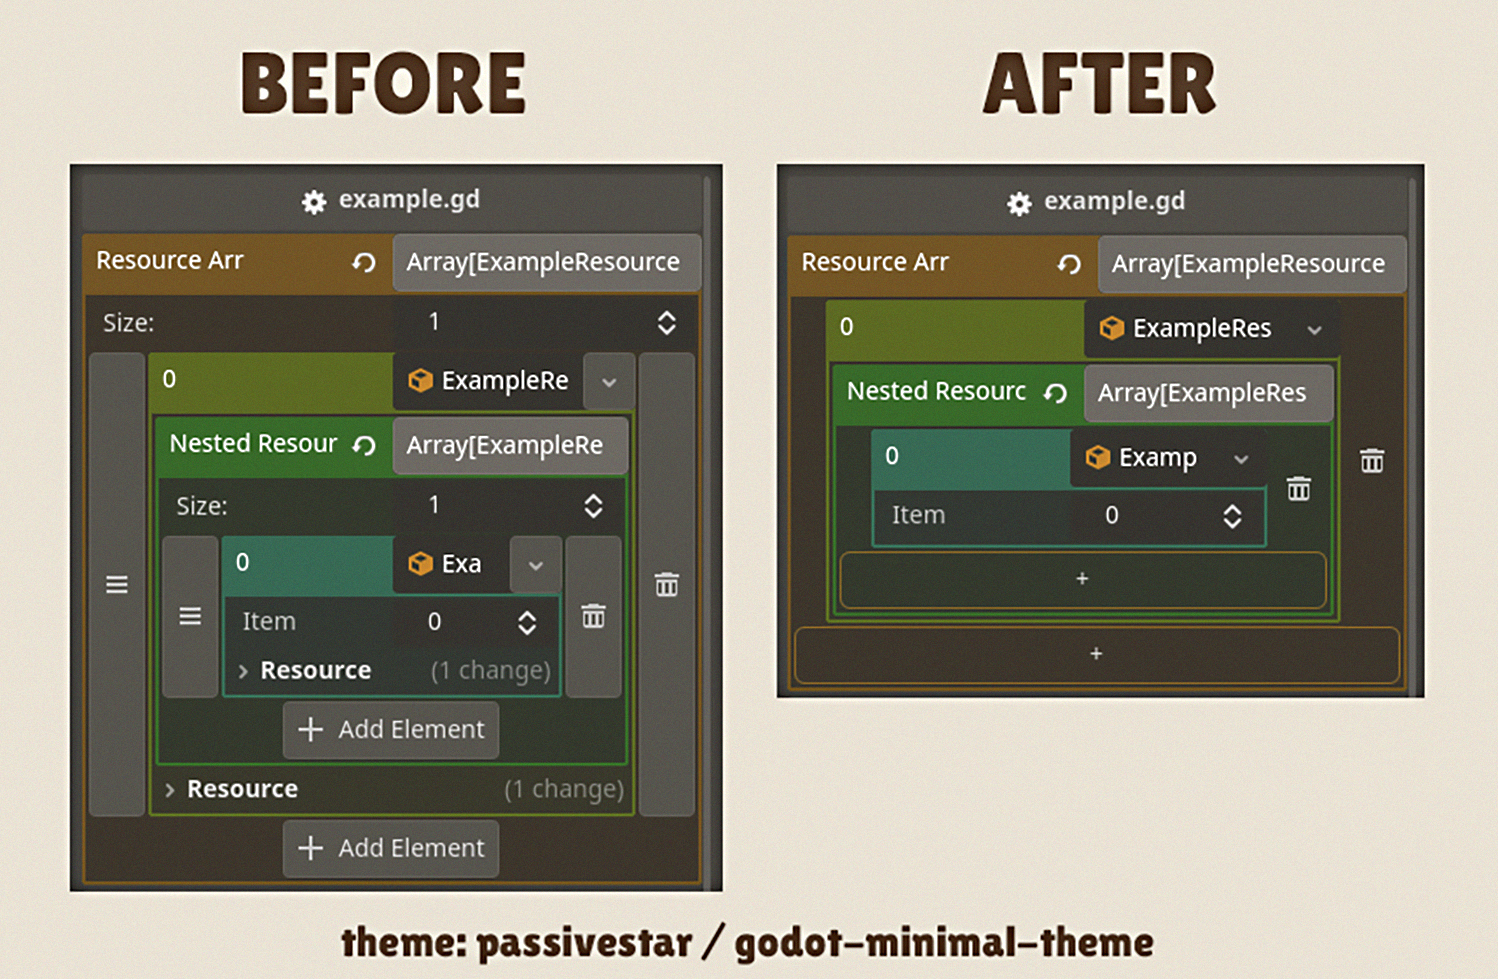
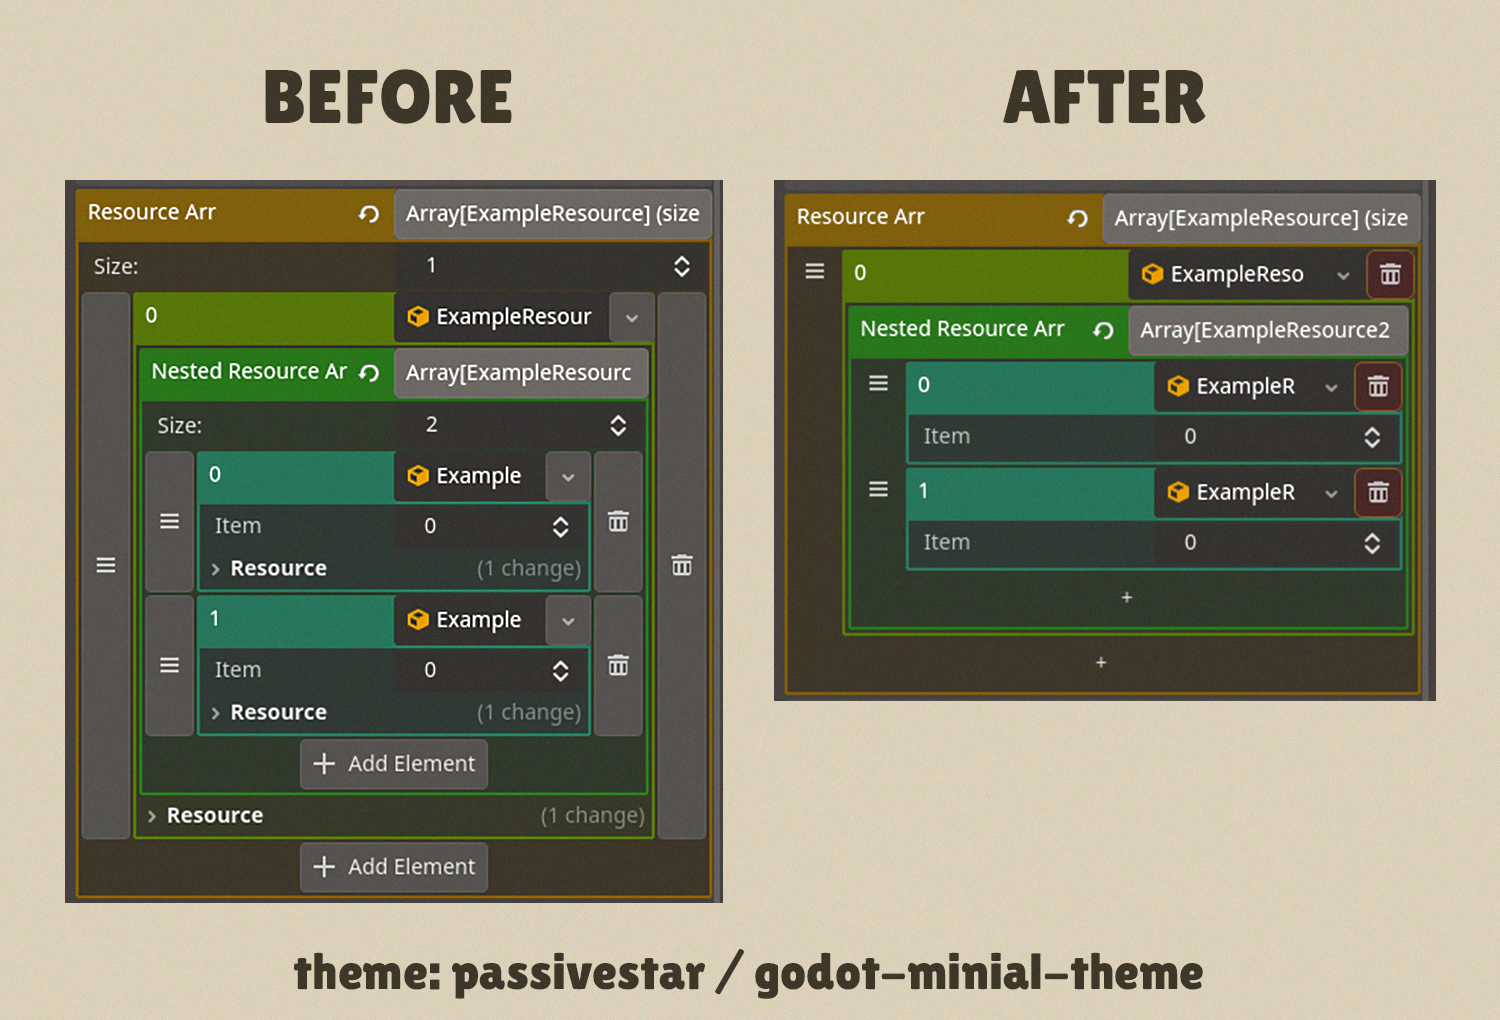
v0.9.2: even better ux

diff --git a/README.md b/README.md
@@ -3,22 +3,18 @@
 ![screenshot1](https://github.com/user-attachments/assets/5a17300e-4c65-4e9c-8af3-8067644192e5)
 
 This plugin debloats the exported Arrays by removing the `Size:` and `> Resource` fields and
-updating the UI colors for a better item hierarchy. This is a beta version because the method used to
-achieve this relies on the UI system defined for each version. So this addon might not work for other
-versions of Godot. This is a follow up of this issue: godotengine/godot#106576
+updating the UX. This is a beta version because the method used to achieve this relies on the UI system defined for each version. So this addon might not work for other versions of Godot. This is a follow up of this issue: godotengine/godot#106576
 
 > Works with Godot 4.4 - other versions not tested
 
 ## Why Are These Changes Made
 
-- Size and Resource fields: They are barely usable in most cases and make the hierarchy way worse
-- Grab menu: This field was emptied out (icon set to null), but you can use the empty space to move the items. This
-feature must be implemented in the header of each item instead of an icon. Hiding it was better for
-the visual hierarchy than having it.
-- Delete and drop down buttons: They have become transparent (in background) to support the main feature and help the visual hierarchy
-- Add Element button: This button was changed to be 1. visually more satisfying 2. Help with the visual hierarchy by being transparent in the normal mode. Also because of the nature of icons (you can't align them to the center I guess) I tried hiding the icon and using a "+" text instead.
+Note: You can disable any of these that you want. I'm just explaining why these are the defaults.
 
-This way only the necessary fields are bold, and the other buttons are in fact, secondary.
+- Size and Resource fields: They are barely usable in most cases and make the hierarchy way worse
+- Grab and drop down buttons: These buttons are a secondary, therefore they must've become transparent to respect the visual hirearchy. The grab button was way better if it was inside the item row, behind the index number. But any changes I tried to make was overriden.
+- Delete button: It's too distracting and large in the original version, which messes with the hierarchy. It's just a button to delete each item, so I put it next to the item header.
+- Add Element button: This button is secondary therefore transparent, and on hover becomes colorful to give feedback (the same as the delete button). Also because you can't center a button icon, I set the icon to null and used "+" as the text for it.
 
 ## How To Use
 
@@ -26,13 +22,17 @@ This way only the necessary fields are bold, and the other buttons are in fact, 
 2. Reload the project: Project > Reload Current Project
 3. Now you're good to go. check the example scene to see the results.
 
+**Important Note**: Because of the hacky nature of this version, you'll see mismatches when you add new items. Try folding and unfolding for the changes to take effect
+
 ## How To Customize
 
-- You can change the `process_` variables in the beginning of [debloat_array_inspector.gd file](addons/debloat_array/debloat_array_inspector.gd) to turn off/on one of the features of this plugin.
+- You can change the variables in the beginning of [debloat_array_inspector.gd file](addons/debloat_array/debloat_array_inspector.gd) to turn off/on each feature you want.
 - You can change the styleboxes in `addons/debloat_array/styles/` to customize the looks.
-
 
 ## Attribution
 
-Thanks to (kleonc)[https://github.com/kleonc], memeber of Godot who wrote the core of this addon. I added the styling
-and UI updates.
+Thanks to (kleonc)[https://github.com/kleonc], memeber of Godot who wrote the core of this addon (the size and resource fields)
+
+## License
+
+MIT
